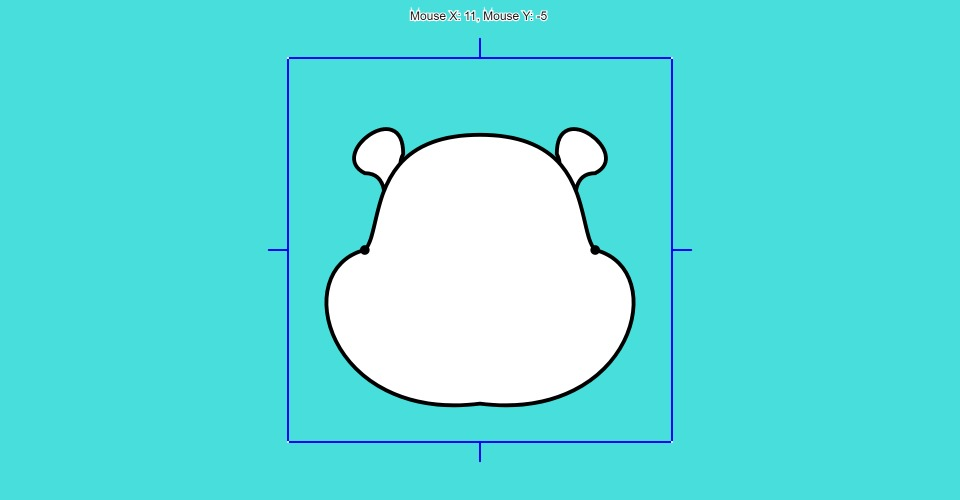
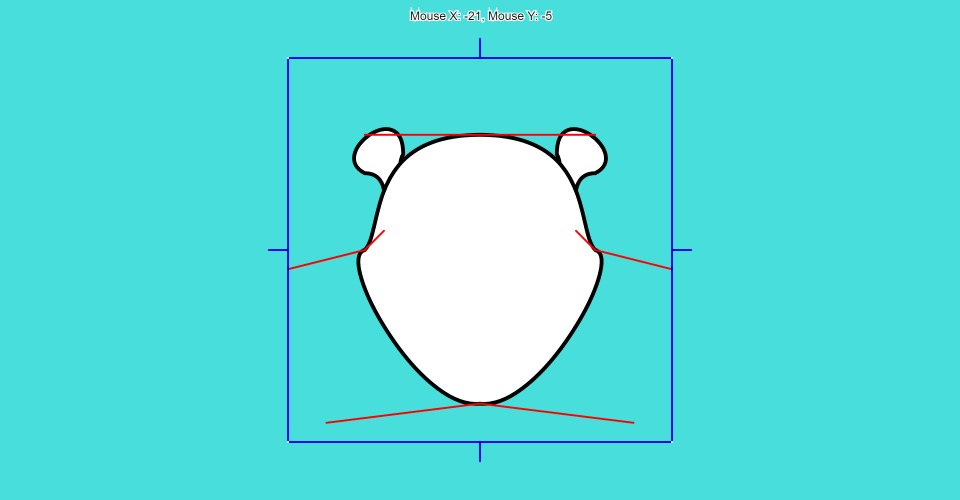
lower face changing

Changed region(s): [[0.2812, 0.45, 0.7188, 0.87], [0.375, 0.24, 0.625, 0.3], [0.4688, 0.0, 0.5938, 0.06]]

diff --git a/face_code.js b/face_code.js
@@ -16,7 +16,7 @@
 
 
 
-function myFace(){
+function myFace(bezierDegree){
   rectMode(CENTER);
   strokeWeight(0.2);
   // fill(200);
@@ -54,15 +54,54 @@ function myFace(){
   endShape();
 
   // Lower half face
+
+  // Define bezier's start and end points
+  let startX = -6;
+  let startY = 0;
+  let endX = 0;
+  let endY = 8;
+  let endX2 = 6;
+  let endY2 = 0;
+
+  // Bezier degree
+  // let bezierDegree = 0.4;
+
+  // Control points coordinates
+  let controlX1 = startX + (endX-4)  * bezierDegree;
+  let controlY1 = startY + (endY-7)  * bezierDegree;
+  let controlX2 = endX + (endX - 8) * bezierDegree;
+  let controlY2 = endY + (endY -7) * bezierDegree;
+  let controlX3 = endX + (endX2+2)  * bezierDegree;
+  let controlY3 = endY + (endY2+1)  * bezierDegree;
+  let controlX4 = endX2 + (endX2 - 2) * bezierDegree;
+  let controlY4 = endY2 + (endY2 +1) * bezierDegree;
+
   beginShape();
-  vertex(-6, 0);
-  bezierVertex(-10, 1, -8, 9, 0, 8);
-  bezierVertex(8, 9, 10, 1, 6, 0);
+  vertex(startX, startY);
+  bezierVertex(controlX1, controlY1, controlX2, controlY2, endX, endY);
+  bezierVertex(controlX3, controlY3, controlX4, controlY4, endX2, endY2);
   endShape();
 
-  strokeWeight(0.5);
-  point(-6, 0);
-  point(6, 0);
+  // beginShape();
+  // vertex(-6, 0);
+  // bezierVertex(-10, 1, -8, 9, 0, 8);
+  // bezierVertex(8, 9, 10, 1, 6, 0);
+  // endShape();
+
+  // Draw Control lines
+  stroke(255,0,0);
+  strokeWeight(0.1);
+  // Top bezier control lines
+  line(-6, 0, -5, -1);
+  line(-6, -6, 0, -6);
+  line(0, -6, 6, -6);
+  line(5, -1, 6, 0);
+
+  // Lower bezier control lines
+  line(-6, 0, -10, 1);
+  line(-8, 9, 0, 8);
+  line(0, 8, 8, 9);
+  line(10, 1, 6, 0);
 }
 
 function orangeAlienFace(tilt_value, eye_value, mouth_value) {

diff --git a/editor.js b/editor.js
@@ -100,7 +100,8 @@ function draw () {
     simplePurpleFace();
   }
   if (mode == '4') {
-    myFace();
+    let bezierDegree = map(s1, 0, 100, 0.3, 1);
+    myFace(bezierDegree);
   }
 
   pop();

diff --git a/README.md b/README.md
@@ -3,6 +3,6 @@
 ## 2023 MDDN342 Assignment 2: Randomised Collections
 **This is where you talk about your project!**
 
->Added some codes to 'editor.js' to show the coordinates of mouse, so that I can find the bezier vertex directly by eye.
-
+>Added control lines (red) to see the bezier controls clearly.
+I've finally get the beziers to move with the slider, now the lower part of the panda face can be changed from flat to round (not exactly what I want for the shape), but it's a good sign at this stage. I'll apply the function to other parts of the face. Eyes, nose and mouth will be added later.
 
